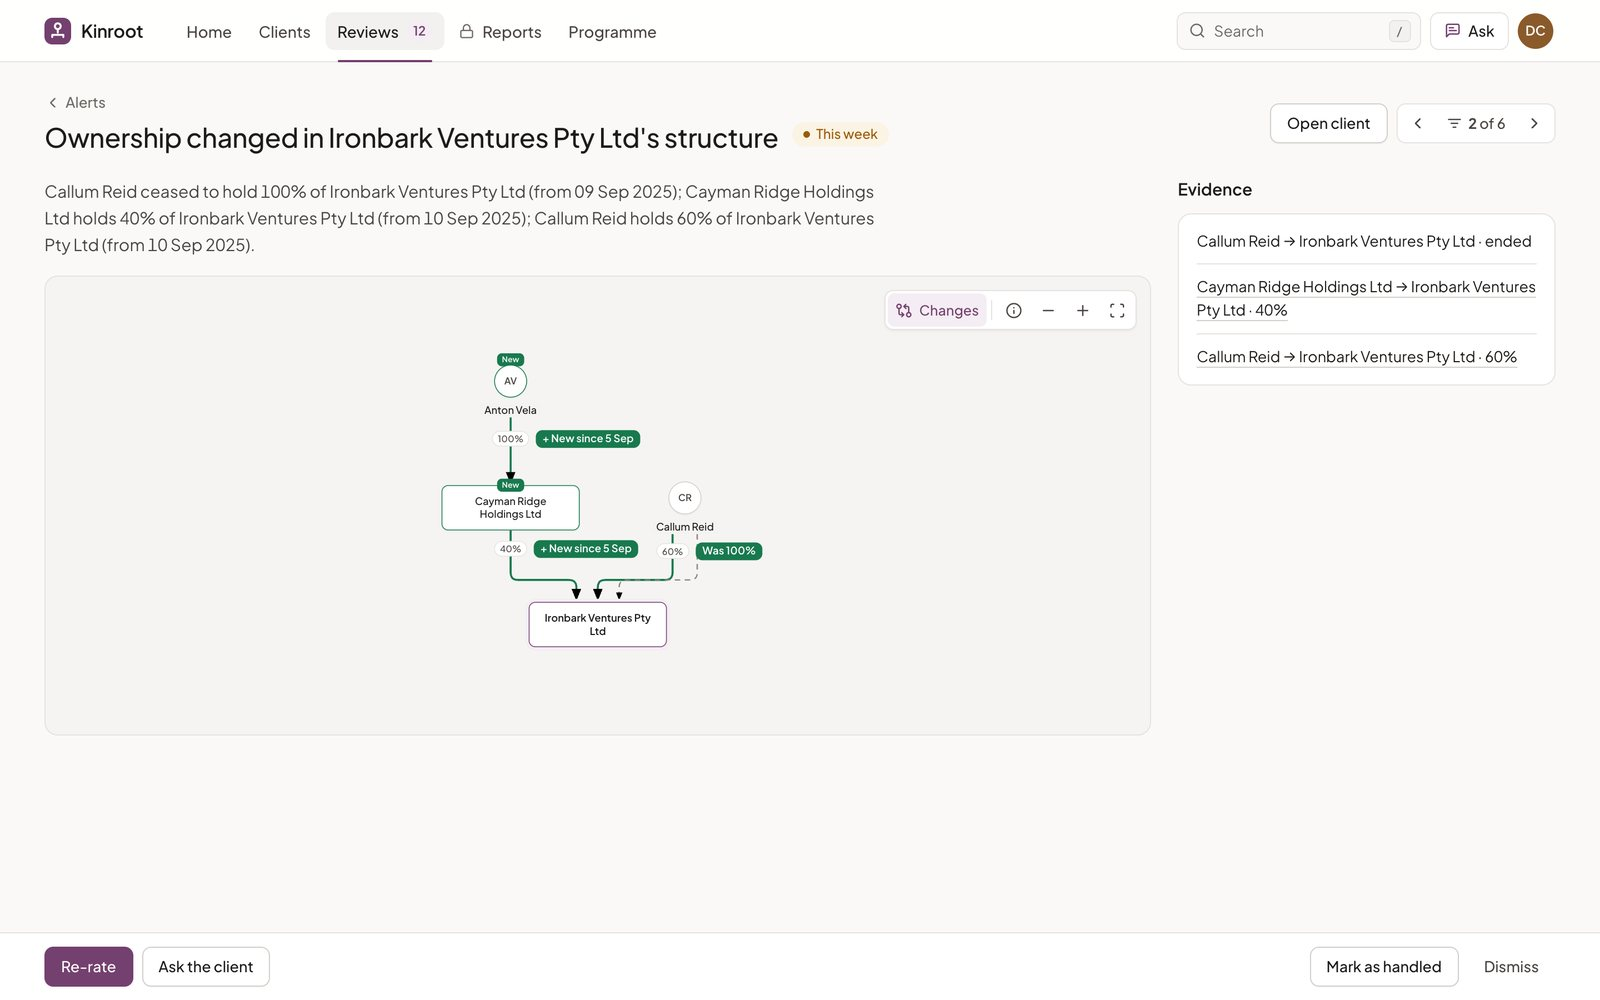
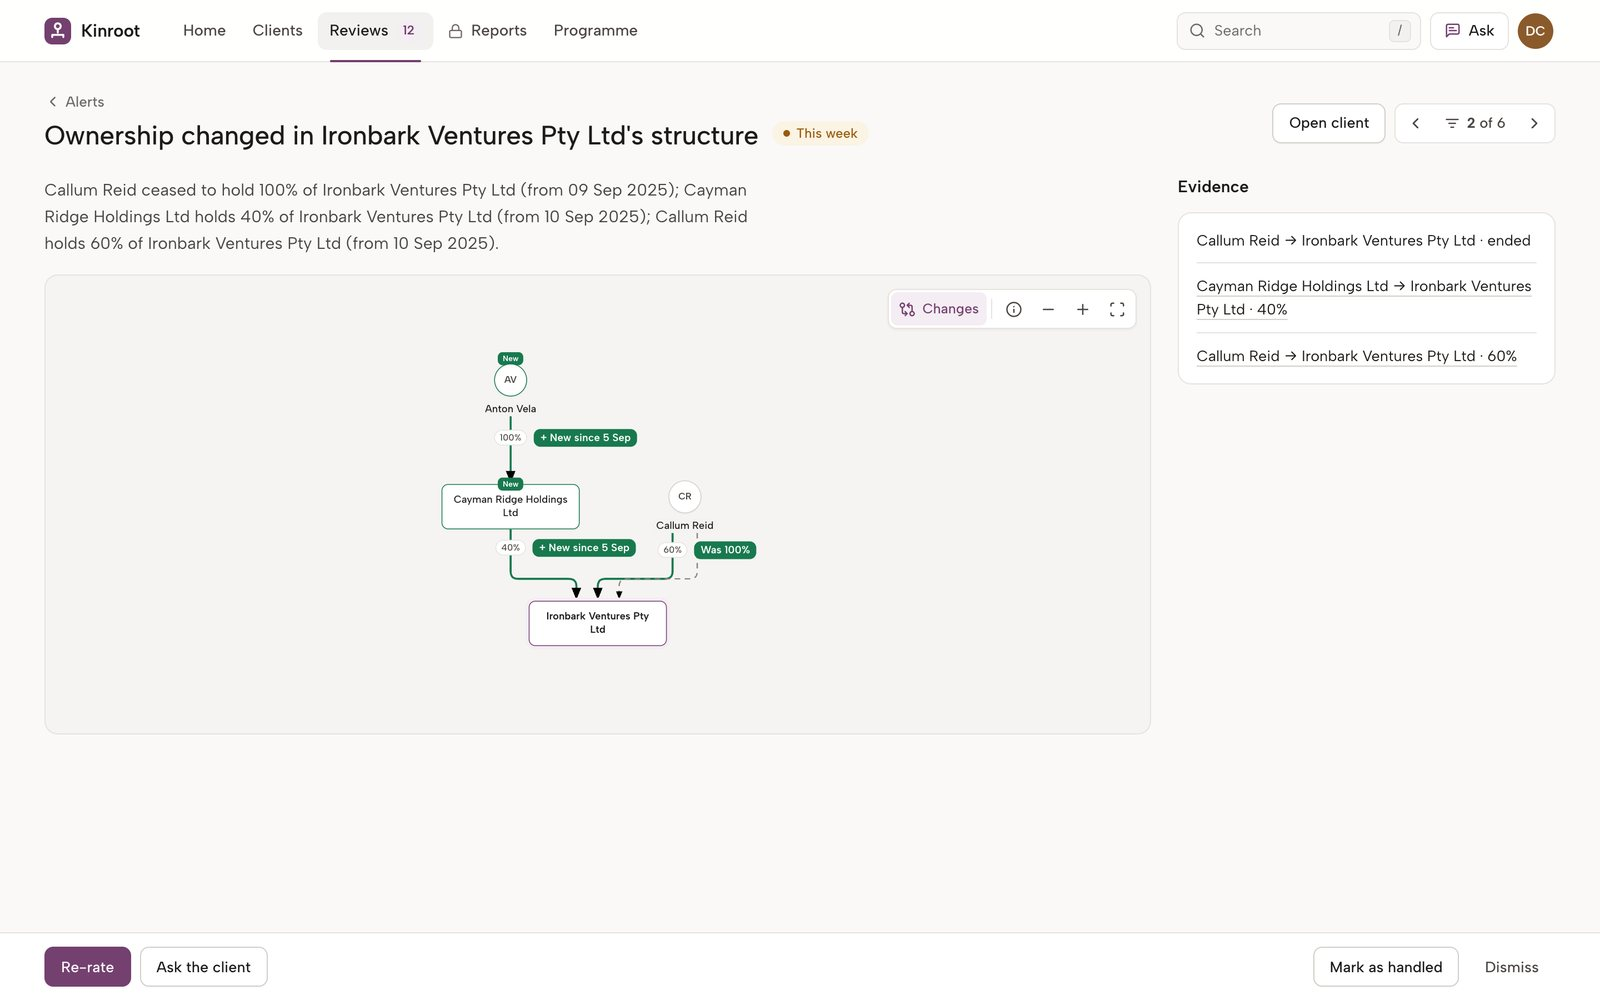
docs: design notes, README and screenshots set in Albert Sans

diff --git a/frontend/DESIGN.md b/frontend/DESIGN.md
@@ -18,7 +18,7 @@ The owner called v3 "pathetic". Looking at its screens as a first-time viewer:
 | Puzzle chrome | Trail bar of shape glyphs, full-screen "Index", depth gauge, "Exhibit A", layer labels | Plain top navigation with five words; a chart toolbar with three icons |
 | Noisy chart | Layer rules, register numbers inside plates, role words on every line, a long equation tag | Names and percentages only; everything else opens on click |
 
-The target calm is Vortex v2 (neutral, one title, labels of one to three words) without copying its identity: Vortex has a left sidebar, Inter and zinc; Kinroot has a top bar, Plus Jakarta Sans and plum.
+The target calm is Vortex v2 (neutral, one title, labels of one to three words) without copying its identity: Vortex has a left sidebar, Inter and zinc; Kinroot has a top bar, Albert Sans and plum.
 
 ## 2. Information architecture
 
@@ -97,11 +97,11 @@ Radius 8 px for controls, 12 px for cards and dialogs, full for chips. Borders o
 
 | Role | Face | Use |
 |---|---|---|
-| Headings | **Plus Jakarta Sans** (variable) 500 | One title per screen, 24 px (20 on phones), sentence case, normal tracking; section labels 15 px 600 |
-| UI / body | **Plus Jakarta Sans** 400–600 | Body 14 px/1.55, labels 13 px 500 |
-| Numbers / IDs | **Roboto Mono** 400–500 | ACN/ABN, case references, seals; percentages use Plus Jakarta tabular figures |
+| Headings | **Albert Sans** (variable) 500 | One title per screen, 24 px (20 on phones), sentence case, normal tracking; section labels 15 px 600 |
+| UI / body | **Albert Sans** 400–600 | Body 14 px/1.55, labels 13 px 500 |
+| Numbers / IDs | **Roboto Mono** 400–500 | ACN/ABN, case references, seals; percentages use Albert Sans tabular figures |
 
-Heading style category: **soft geometric-humanist sans, sentence case, medium weight, no tracking tricks**. Syne, Onest and Martian Mono are retired.
+Heading style category: **grotesk-humanist sans (Albert Sans), sentence case, medium weight, no tracking tricks**. Syne, Onest and Martian Mono are retired.
 
 ## 7. Status language
 

diff --git a/README.md b/README.md
@@ -172,7 +172,7 @@ flowchart LR
 | Matching and screening | rapidfuzz, jellyfish (Jaro-Winkler, Double Metaphone, NYSIIS), custom normalisation and blocking |
 | Classical ML | scikit-learn, LightGBM, Optuna, SHAP (exact TreeSHAP), isotonic calibration, MLflow (local tracking and registry) |
 | Assistant | Six permission-checked tools over the graph, screening and risk records; a deterministic offline planner; optional LiteLLM (Groq, Gemini) |
-| Web | React 19, Vite, React Router, TanStack Query and TanStack Table, shadcn/ui on Radix primitives (re-themed: warm neutrals with a plum accent, light and dark), Sigma.js 3 + graphology (camera and ForceAtlas2) under Kinroot's own ownership-chart drawing, Motion, Tailwind CSS 4.1; type set in Plus Jakarta Sans and Roboto Mono; Vitest and Playwright |
+| Web | React 19, Vite, React Router, TanStack Query and TanStack Table, shadcn/ui on Radix primitives (re-themed: warm neutrals with a plum accent, light and dark), Sigma.js 3 + graphology (camera and ForceAtlas2) under Kinroot's own ownership-chart drawing, Motion, Tailwind CSS 4.1; type set in Albert Sans and Roboto Mono; Vitest and Playwright |
 | Quality | pytest, Ruff, mypy (Django and DRF plugins), ESLint, Vitest, an evaluation harness with gates, GitHub Actions CI |
 
 ## Machine learning
